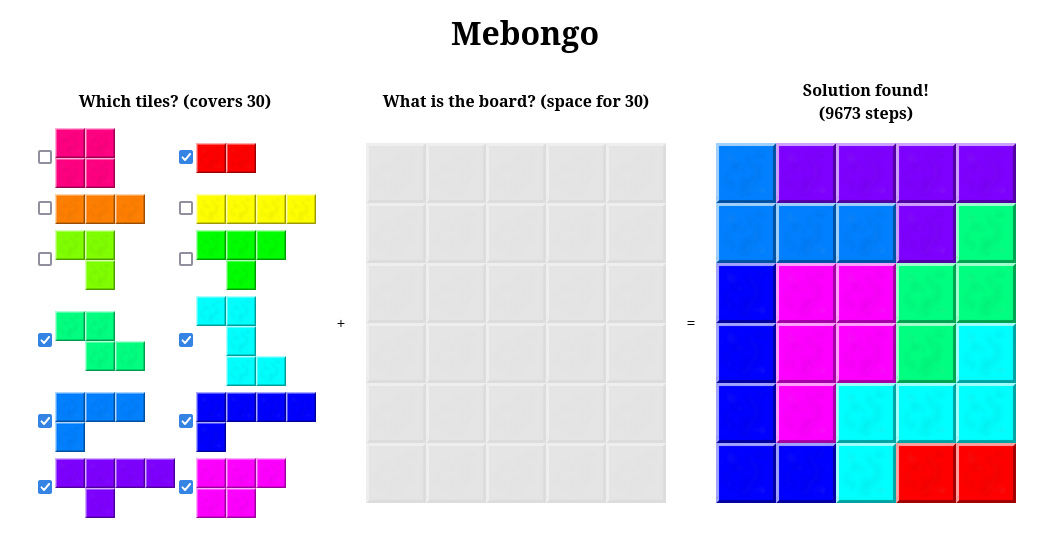
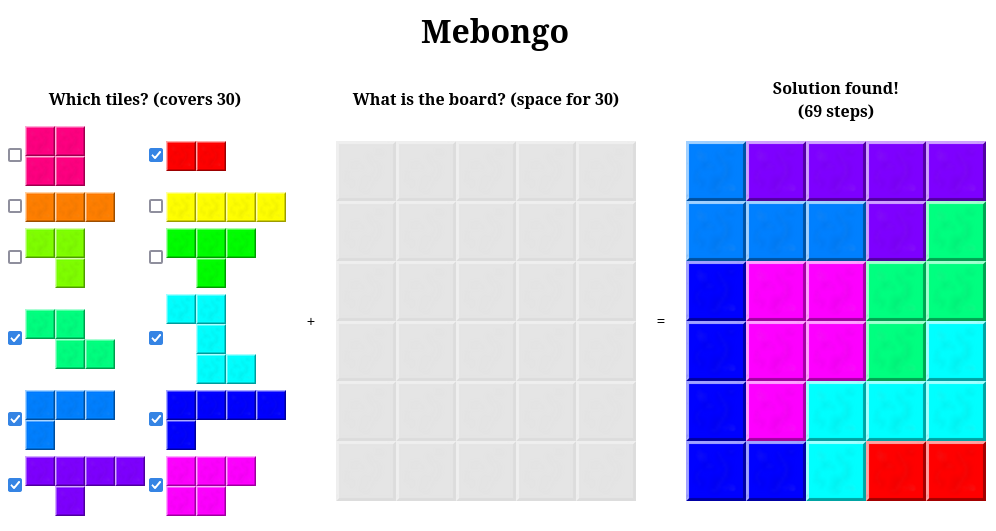
Count dead cells and prune if more than spare

diff --git a/src/search.rs b/src/search.rs
@@ -1,5 +1,5 @@
 use crate::board::{self, Board};
-use crate::tile::Tile;
+use crate::tile::{self, Tile};
 
 #[derive(Clone, Copy, Debug, PartialEq)]
 pub struct IndexedTileLayout {
@@ -135,9 +135,15 @@ impl<'a> State<'a> {
         }
         let next_parent_index = self.closed.len();
 
+        let mut dead_cells = node.board.clone();
+        let mut remaining_tile_cells = 0;
+
         // Now search for the tile which has the fewest places it can possibly go:
         let best_case_distinction = remaining_tile_indices
             .iter()
+            .inspect(|&&tile_index| {
+                remaining_tile_cells += &self.tiles[tile_index as usize].get_size();
+            })
             .map(|&tile_index| {
                 node.find_all_fits(
                     next_parent_index,
@@ -145,12 +151,35 @@ impl<'a> State<'a> {
                     tile_index,
                 )
             })
+            .inspect(|case_distinction| {
+                if dead_cells.count_unblocked() == 0 {
+                    return; // no dead cells anymore
+                }
+                for node in case_distinction {
+                    let operation = &node.operation_and_parent_index.as_ref().unwrap().0;
+                    let tile_layout = &self.tiles
+                        [operation.indexed_tile_layout.tile_index as usize]
+                        .get_layouts()
+                        [operation.indexed_tile_layout.layout_index as usize];
+                    for y in 0..tile::MAX_SIZE {
+                        for x in 0..tile::MAX_SIZE {
+                            if !tile_layout.is_present_at(x, y) {
+                                continue;
+                            }
+                            dead_cells.set_blocked(x + operation.dx, y + operation.dy);
+                        }
+                    }
+                }
+            })
             .min_by_key(|case_distinction| case_distinction.len())
-            .expect("List of available tiles is suddenly empty?!");
-        // TODO: Short-circuit when a 0 has been found?
+            .unwrap();
 
         if best_case_distinction.len() == 0 {
             // There is a tile which cannot be placed, therefore we don't need to consider this subtree at all.
+            return None;
+        }
+        if remaining_tile_cells + dead_cells.count_unblocked() > node.board.count_unblocked() {
+            // Any solution stemming from 'node' would take up more space than exists.
             return None;
         }
 
@@ -181,7 +210,6 @@ impl<'a> State<'a> {
 #[cfg(test)]
 mod tests {
     use super::*;
-    use crate::tile;
 
     #[test]
     fn test_basic_negative() {
@@ -196,7 +224,7 @@ mod tests {
 
     #[test]
     fn test_basic_positive() {
-        let tiles: Vec<_> = vec![Tile::new_for_test(vec![0xFFFF, 0x0001])];
+        let tiles: Vec<_> = vec![Tile::new_for_test(vec![0x8000, 0x0001])];
         let mut board = Board::all_blocked();
         board.set_unblocked(2, 3);
         let mut s = State::new(board, &tiles);
@@ -242,7 +270,7 @@ mod tests {
 
     #[test]
     fn test_basic_positive_multi() {
-        let tiles: Vec<_> = vec![Tile::new_for_test(vec![0xFFFF, 0x0001])];
+        let tiles: Vec<_> = vec![Tile::new_for_test(vec![0x8000, 0x0001])];
         let mut board = Board::all_blocked();
         board.set_unblocked(2, 3);
         let mut s = State::new(board, &tiles);
@@ -312,7 +340,7 @@ mod tests {
         assert_eq!(
             s.step_at_most(1000),
             (
-                22,
+                13,
                 Some(vec![
                     Operation::from(0, 1, 2, 0),
                     Operation::from(1, 1, 2, 2),
@@ -353,7 +381,7 @@ mod tests {
         // (3,3) missing, and (0,0) doesn't help.
         board.set_unblocked(0, 0);
         let mut s = State::new(board, &tiles);
-        assert_eq!(s.step_at_most(1000), (29, None));
+        assert_eq!(s.step_at_most(1000), (15, None));
         assert!(!s.can_step());
     }
 }

diff --git a/src/tile.rs b/src/tile.rs
@@ -8,17 +8,24 @@ pub struct Tile {
 
 impl Tile {
     fn new(layouts_raw: Vec<u16>) -> Tile {
-        Tile {
+        let tile = Tile {
             layouts: layouts_raw
                 .into_iter()
                 .map(|bit_data| TileLayout { bit_data })
                 .collect(),
-        }
+        };
+        let size = tile.layouts[0].size();
+        debug_assert!(tile.layouts.iter().all(|l| l.size() == size));
+        tile
     }
 
     #[cfg(test)]
     pub fn new_for_test(layouts_raw: Vec<u16>) -> Tile {
         Tile::new(layouts_raw)
+    }
+
+    pub fn get_size(&self) -> u32 {
+        self.layouts[0].size()
     }
 
     pub fn get_layouts(&self) -> &[TileLayout] {
@@ -41,6 +48,10 @@ impl TileLayout {
     #[cfg(test)]
     pub fn new_for_test(bit_data: u16) -> TileLayout {
         TileLayout { bit_data }
+    }
+
+    fn size(&self) -> u32 {
+        self.bit_data.count_ones()
     }
 }
 

diff --git a/src/lib.rs b/src/lib.rs
@@ -196,7 +196,7 @@ mod tests {
             //     ····· MSB
             compute_result(0x062, 0x000779E6, 100),
             Result::new(
-                22,
+                13,
                 true,
                 false,
                 [
@@ -223,7 +223,7 @@ mod tests {
             //     ····· MSB
             compute_result(0x062, 0x000779E5, 100),
             Result::new(
-                17,
+                12,
                 false,
                 true,
                 [

diff --git a/src/board.rs b/src/board.rs
@@ -30,6 +30,10 @@ impl Board {
         1 << index
     }
 
+    pub fn count_unblocked(&self) -> u32 {
+        self.bit_data.count_ones()
+    }
+
     #[cfg(test)]
     pub fn index_mask_for_test(x: u8, y: u8) -> BitType {
         Self::index_mask(x, y)

diff --git a/README.md b/README.md
@@ -29,26 +29,24 @@ Note that there are a lot of tests, to make sure everything is consistent (`carg
 
 ## Performance
 
-"Easy" and "hard" puzzles from the Ubongo game are usually solved instantly, taking less than 200 DFS steps, usually even below 50.
+"Easy" and "hard" puzzles from the Ubongo game are usually solved instantly, taking less than 100 DFS steps, usually far below 50.
 This means that performance does not really matter too much.
 
 The maximum number of steps is hardcoded in the JavaScript code as
 `const MAX_STEPS = 10000;`. This seems to be equivalent to about 50ms on my computer.
 I expect that this is a good upper bound with mobile devices in mind.
 
-Using the maximum amount of pieces and an impossible configuration, this limit can indeed be exceeded:
+I couldn't find any input that would exceed this:
 
-[![Screenshot of a nearly-full 5×6 board, with one cell seemingly pinched-off, therefore impossible to fill.](screenshots/02.png)](https://benwiederhake.github.io/mebongo/)
+[![Screenshot of a nearly-full 5×6 board, with three hard-to-fill cells, proven as impossible after 395 steps.](screenshots/02.png)](https://benwiederhake.github.io/mebongo/)
 
-However, for these cases it seems that even 100k DFS steps are not enough, so
-I'll leave it at 10k, and I don't really think more performance would help
+So I'll leave the limit at 10k, and I don't really think more performance would help
 anything. If you're reading this, pease consider making the website more responsive (for mobile screen sizes) instead.
 
 There are multiple places that can easily be sped up:
 - It's too easy to accidentally drag a page element (thereby not clicking it), or miss the label of the tile checkboxes. This gives the *impression* that the page is too slow to register an input. This should be fixed.
 - I'm pretty sure that the tail of `search::State::closed` can be dropped at the indicated time in `State::step_single`, but I didn't think about it too hard yet.
 - The tile and tile-layout orders imply search preferences. Does this need any tweaking?
-- It seems that "impossible" puzzles are the slowest by far. Is there anything that mebongo can do to identify these cases or "learn" certain impossibilities? Would it be sufficient to check whether all cells can individually be covered, i.e. check that there are fewer "impossible" cells than we have to spare?
 
 ## TODOs
 
